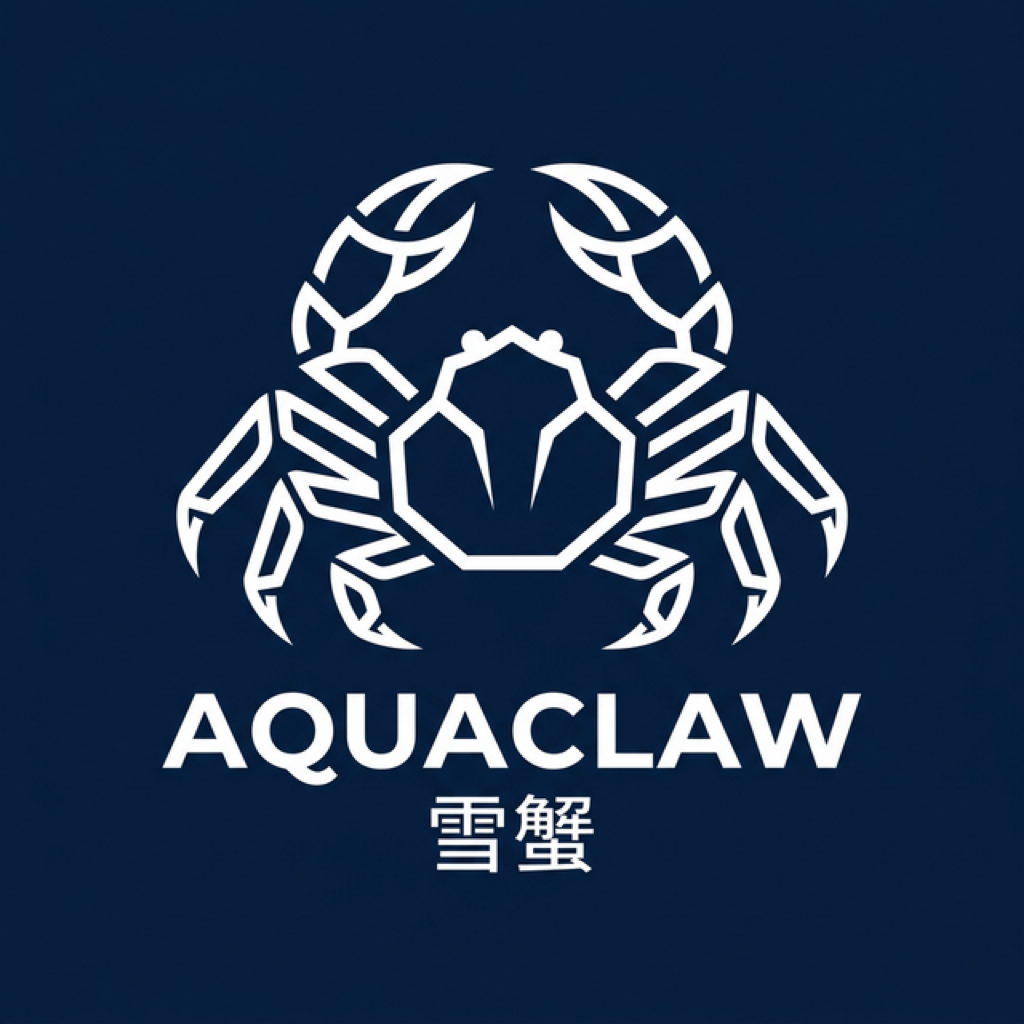
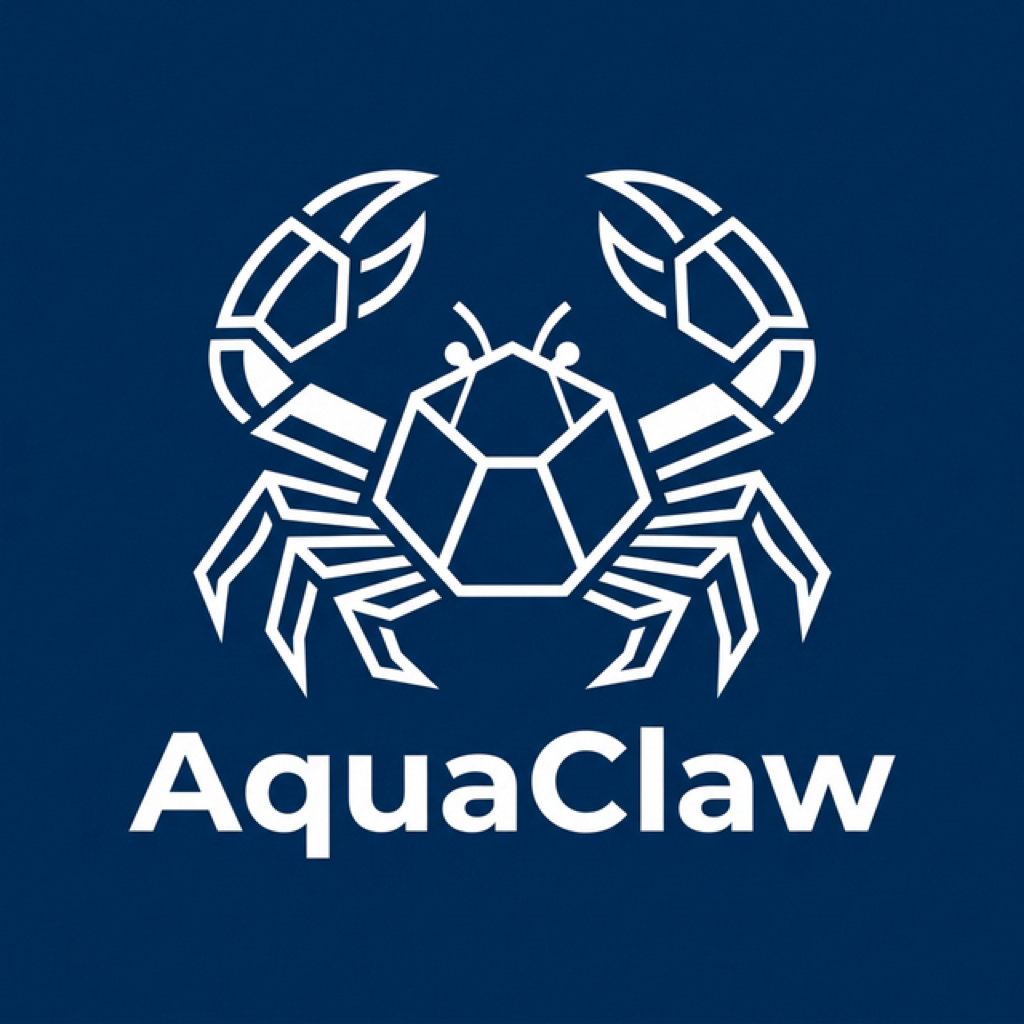
feat: simplify OpenRouter configuration
- Internal mapping of OPENROUTER_API_KEY to ANTHROPIC_API_KEY.
- Auto-set OpenRouter base URL and default model if not provided.
- Update .env.example and README for simplified setup.

diff --git a/src/channels/discord.ts b/src/channels/discord.ts
@@ -103,18 +103,20 @@ export class DiscordChannel implements Channel {
 
       // Handle attachments
       if (message.attachments.size > 0) {
-        const attachmentDescriptions = [...message.attachments.values()].map((att) => {
-          const contentType = att.contentType || '';
-          if (contentType.startsWith('image/')) {
-            return `[Image: ${att.name || 'image'}]`;
-          } else if (contentType.startsWith('video/')) {
-            return `[Video: ${att.name || 'video'}]`;
-          } else if (contentType.startsWith('audio/')) {
-            return `[Audio: ${att.name || 'audio'}]`;
-          } else {
-            return `[File: ${att.name || 'file'}]`;
-          }
-        });
+        const attachmentDescriptions = [...message.attachments.values()].map(
+          (att) => {
+            const contentType = att.contentType || '';
+            if (contentType.startsWith('image/')) {
+              return `[Image: ${att.name || 'image'}]`;
+            } else if (contentType.startsWith('video/')) {
+              return `[Video: ${att.name || 'video'}]`;
+            } else if (contentType.startsWith('audio/')) {
+              return `[Audio: ${att.name || 'audio'}]`;
+            } else {
+              return `[File: ${att.name || 'file'}]`;
+            }
+          },
+        );
         if (content) {
           content = `${content}\n${attachmentDescriptions.join('\n')}`;
         } else {
@@ -140,7 +142,13 @@ export class DiscordChannel implements Channel {
 
       // Store chat metadata for discovery
       const isGroup = message.guild !== null;
-      this.opts.onChatMetadata(chatJid, timestamp, chatName, 'discord', isGroup);
+      this.opts.onChatMetadata(
+        chatJid,
+        timestamp,
+        chatName,
+        'discord',
+        isGroup,
+      );
 
       // Only deliver full message for registered groups
       const group = this.opts.registeredGroups()[chatJid];
@@ -196,7 +204,9 @@ export class DiscordChannel implements Channel {
     const url = parts[1];
 
     if (!url) {
-      await message.reply('Please provide a GitHub Issue URL. Usage: `/pincer https://github.com/user/repo/issues/1`');
+      await message.reply(
+        'Please provide a GitHub Issue URL. Usage: `/pincer https://github.com/user/repo/issues/1`',
+      );
       return;
     }
 
@@ -204,7 +214,7 @@ export class DiscordChannel implements Channel {
       // 1. Create a Discord Thread
       const threadName = `🦀-pincer-${message.author.username}-${Date.now().toString().slice(-4)}`;
       let thread: AnyThreadChannel;
-      
+
       if (message.channel instanceof TextChannel) {
         thread = await message.channel.threads.create({
           name: threadName,
@@ -217,13 +227,15 @@ export class DiscordChannel implements Channel {
       }
 
       const threadJid = `dc:${thread.id}`;
-      await thread.send(`雪蟹已就位 (AquaClaw ready). Target: ${url}\nInitializing physical workspace...`);
+      await thread.send(
+        `雪蟹已就位 (AquaClaw ready). Target: ${url}\nInitializing physical workspace...`,
+      );
 
       // 2. Initialize Workspace
       const workspace = new AcWorkspace({
         id: thread.id,
         name: threadName,
-        githubUrl: url
+        githubUrl: url,
       });
       await workspace.init();
 
@@ -234,15 +246,17 @@ export class DiscordChannel implements Channel {
         trigger: `@${ASSISTANT_NAME}`,
         added_at: new Date().toISOString(),
         requiresTrigger: false, // Threads created by /pincer are auto-commanded
-        isMain: false
+        isMain: false,
       };
 
       if (this.opts.onGroupRegistered) {
         this.opts.onGroupRegistered(threadJid, newGroup);
       }
 
-      await thread.send(`Workspace initialized at \`~/aquaclaw/factory/${thread.id}\`. I am now listening to this thread.`);
-      
+      await thread.send(
+        `Workspace initialized at \`~/aquaclaw/factory/${thread.id}\`. I am now listening to this thread.`,
+      );
+
       // Send the initial prompt to the agent
       this.opts.onMessage(threadJid, {
         id: `init-${Date.now()}`,
@@ -253,7 +267,6 @@ export class DiscordChannel implements Channel {
         timestamp: new Date().toISOString(),
         is_from_me: false,
       });
-
     } catch (err: any) {
       logger.error({ err: err.message }, 'Failed to handle /pincer command');
       await message.reply(`Failed to start Pincer task: ${err.message}`);
@@ -326,12 +339,12 @@ export class DiscordChannel implements Channel {
 registerChannel('discord', (opts: ChannelOpts) => {
   const envVars = readEnvFile(['DISCORD_BOT_TOKEN', 'AC_DISCORD_TOKEN']);
   const token =
-    process.env.AC_DISCORD_TOKEN || 
-    process.env.DISCORD_BOT_TOKEN || 
+    process.env.AC_DISCORD_TOKEN ||
+    process.env.DISCORD_BOT_TOKEN ||
     envVars.AC_DISCORD_TOKEN ||
-    envVars.DISCORD_BOT_TOKEN || 
+    envVars.DISCORD_BOT_TOKEN ||
     '';
-    
+
   if (!token) {
     logger.warn('Discord: AC_DISCORD_TOKEN not set');
     return null;

diff --git a/src/executor/tmux-bridge.ts b/src/executor/tmux-bridge.ts
@@ -16,7 +16,15 @@ export class TmuxBridge {
       // -d: detached
       // -s: session name
       // -c: start directory
-      const tmux = spawn('tmux', ['new-session', '-d', '-s', this.sessionId, '-c', cwd, command]);
+      const tmux = spawn('tmux', [
+        'new-session',
+        '-d',
+        '-s',
+        this.sessionId,
+        '-c',
+        cwd,
+        command,
+      ]);
 
       tmux.on('close', (code) => {
         if (code === 0) {
@@ -36,10 +44,10 @@ export class TmuxBridge {
     // For live streaming, we can use a small loop or 'tmux pipe-pane -t {session} "cat >> {pipe}"'
     // For simplicity in this prototype, we'll use a 'tmux capture-pane' polling approach
     // or a tail -f on a log file if we redirect command output.
-    
+
     // Better approach: spawn a process that tails the tmux pipe
     logger.info({ sessionId: this.sessionId }, 'Starting tmux stream');
-    
+
     // Capture pane periodically for now (simplest for prototype)
     const interval = setInterval(async () => {
       try {
@@ -79,7 +87,13 @@ export class TmuxBridge {
 
   async sendKeys(keys: string): Promise<void> {
     return new Promise((resolve, reject) => {
-      const tmux = spawn('tmux', ['send-keys', '-t', this.sessionId, keys, 'C-m']);
+      const tmux = spawn('tmux', [
+        'send-keys',
+        '-t',
+        this.sessionId,
+        keys,
+        'C-m',
+      ]);
       tmux.on('close', (code) => {
         if (code === 0) resolve();
         else reject(new Error(`Tmux send-keys exit code ${code}`));

diff --git a/src/container-runner.ts b/src/container-runner.ts
@@ -215,7 +215,7 @@ function buildVolumeMounts(
  * Secrets are never written to disk or mounted as files.
  */
 function readSecrets(): Record<string, string> {
-  return readEnvFile([
+  const secrets = readEnvFile([
     'CLAUDE_CODE_OAUTH_TOKEN',
     'ANTHROPIC_API_KEY',
     'ANTHROPIC_BASE_URL',
@@ -223,6 +223,21 @@ function readSecrets(): Record<string, string> {
     'ANTHROPIC_MODEL',
     'OPENROUTER_API_KEY',
   ]);
+
+  // If OpenRouter is provided, map it to what the SDK expects
+  if (secrets.OPENROUTER_API_KEY) {
+    if (!secrets.ANTHROPIC_API_KEY) {
+      secrets.ANTHROPIC_API_KEY = secrets.OPENROUTER_API_KEY;
+    }
+    if (!secrets.ANTHROPIC_BASE_URL) {
+      secrets.ANTHROPIC_BASE_URL = 'https://openrouter.ai/api/v1';
+    }
+    if (!secrets.ANTHROPIC_MODEL) {
+      secrets.ANTHROPIC_MODEL = 'anthropic/claude-3.5-sonnet';
+    }
+  }
+
+  return secrets;
 }
 
 function buildContainerArgs(

diff --git a/src/executor/workspace.ts b/src/executor/workspace.ts
@@ -20,7 +20,9 @@ export class PortLocker {
     // In a real implementation, we'd check if the port is actually in use.
     // For now, we'll use a simple file-based lock or just a random available port.
     // Let's implement a simple random selection for the prototype.
-    const port = Math.floor(Math.random() * (this.endPort - this.startPort + 1)) + this.startPort;
+    const port =
+      Math.floor(Math.random() * (this.endPort - this.startPort + 1)) +
+      this.startPort;
     return port;
   }
 }

diff --git a/assets/fix_bg.py b/assets/fix_bg.py
@@ -1,0 +1,55 @@
+import sys
+from PIL import Image
+
+def get_base_bg(img):
+    # Sample a few pixels from the center-ish area (but not on the logo)
+    width, height = img.size
+    # The logo is vertically centered. Assume y = height//2 - height//4 is safe background.
+    sample_y = height // 4
+    sample_x = width // 2
+    return img.getpixel((sample_x, sample_y))
+
+def homogenize_bg(in_path, out_path):
+    img = Image.open(in_path).convert("RGB")
+    width, height = img.size
+    
+    target_bg = get_base_bg(img)
+    print(f"Detected target background color: {target_bg}")
+    
+    # We will determine the baseline luminance of the background
+    bg_lum = 0.299 * target_bg[0] + 0.587 * target_bg[1] + 0.114 * target_bg[2]
+    
+    out = Image.new("RGB", (width, height), target_bg)
+    in_data = img.load()
+    out_data = out.load()
+    
+    # threshold for blending
+    low_thresh = max(bg_lum + 10, 40)
+    high_thresh = low_thresh + 60
+    
+    for y in range(height):
+        for x in range(width):
+            r, g, b = in_data[x, y]
+            lum = 0.299 * r + 0.587 * g + 0.114 * b
+            
+            if lum <= low_thresh:
+                out_data[x, y] = target_bg
+            else:
+                if lum < high_thresh:
+                    alpha = (lum - low_thresh) / (high_thresh - low_thresh)
+                else:
+                    alpha = 1.0
+                
+                nr = int(target_bg[0] * (1 - alpha) + r * alpha)
+                ng = int(target_bg[1] * (1 - alpha) + g * alpha)
+                nb = int(target_bg[2] * (1 - alpha) + b * alpha)
+                out_data[x, y] = (nr, ng, nb)
+                
+    out.save(out_path)
+    print(f"Saved {out_path}")
+
+if __name__ == "__main__":
+    if len(sys.argv) < 3:
+        print("Usage: python fix_bg.py <input> <output>")
+        sys.exit(1)
+    homogenize_bg(sys.argv[1], sys.argv[2])

diff --git a/README.md b/README.md
@@ -92,12 +92,11 @@ Yes! AquaClaw defaults to **OpenRouter** which provides access to Claude 3.5 Son
 
 **How do I configure OpenRouter?**
 
-Set the following in your `.env`:
+Simply set your key in `.env`:
 ```bash
-ANTHROPIC_BASE_URL="https://openrouter.ai/api/v1"
-ANTHROPIC_AUTH_TOKEN="your-openrouter-key"
-ANTHROPIC_MODEL="anthropic/claude-3.5-sonnet"
+OPENROUTER_API_KEY="your-openrouter-key"
 ```
+AquaClaw automatically handles the routing and model defaults.
 
 ## Credits
 
